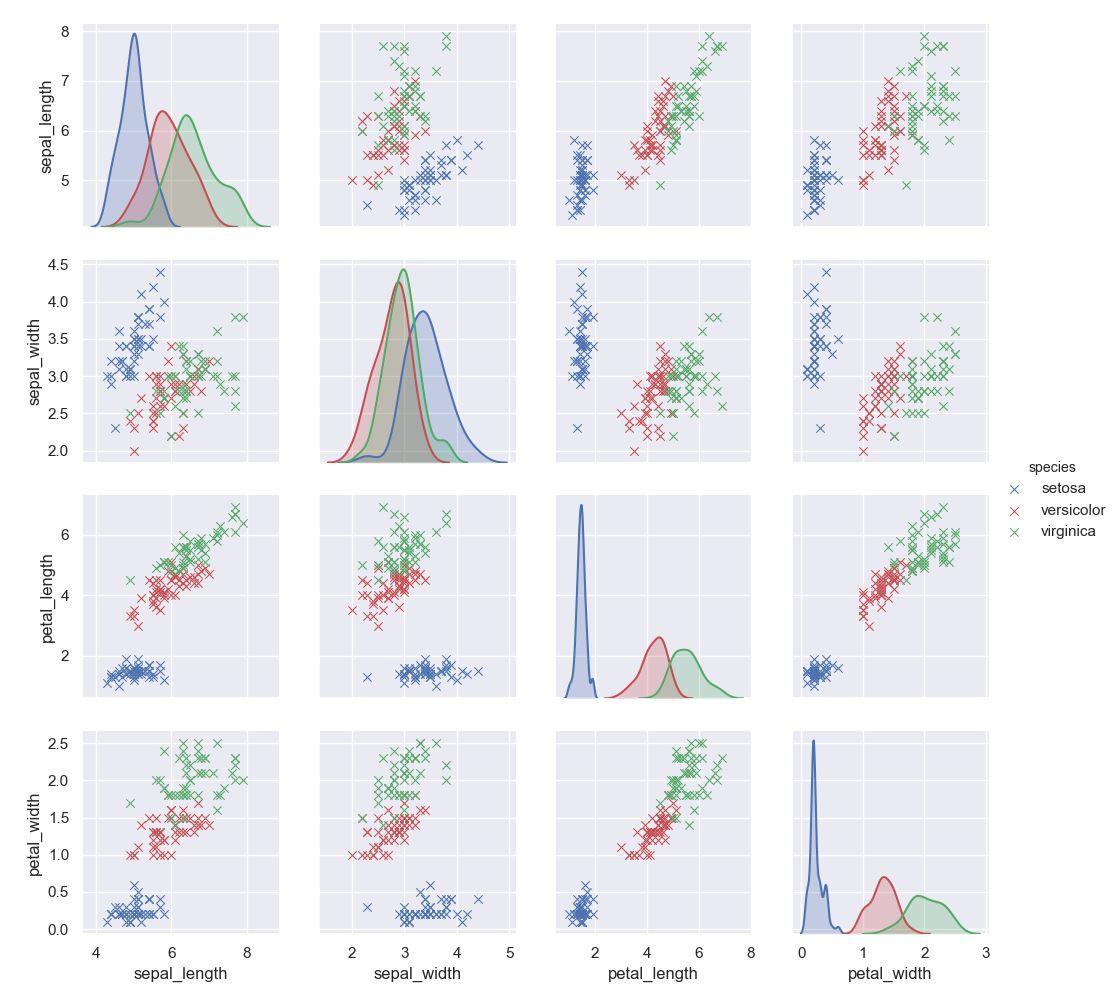
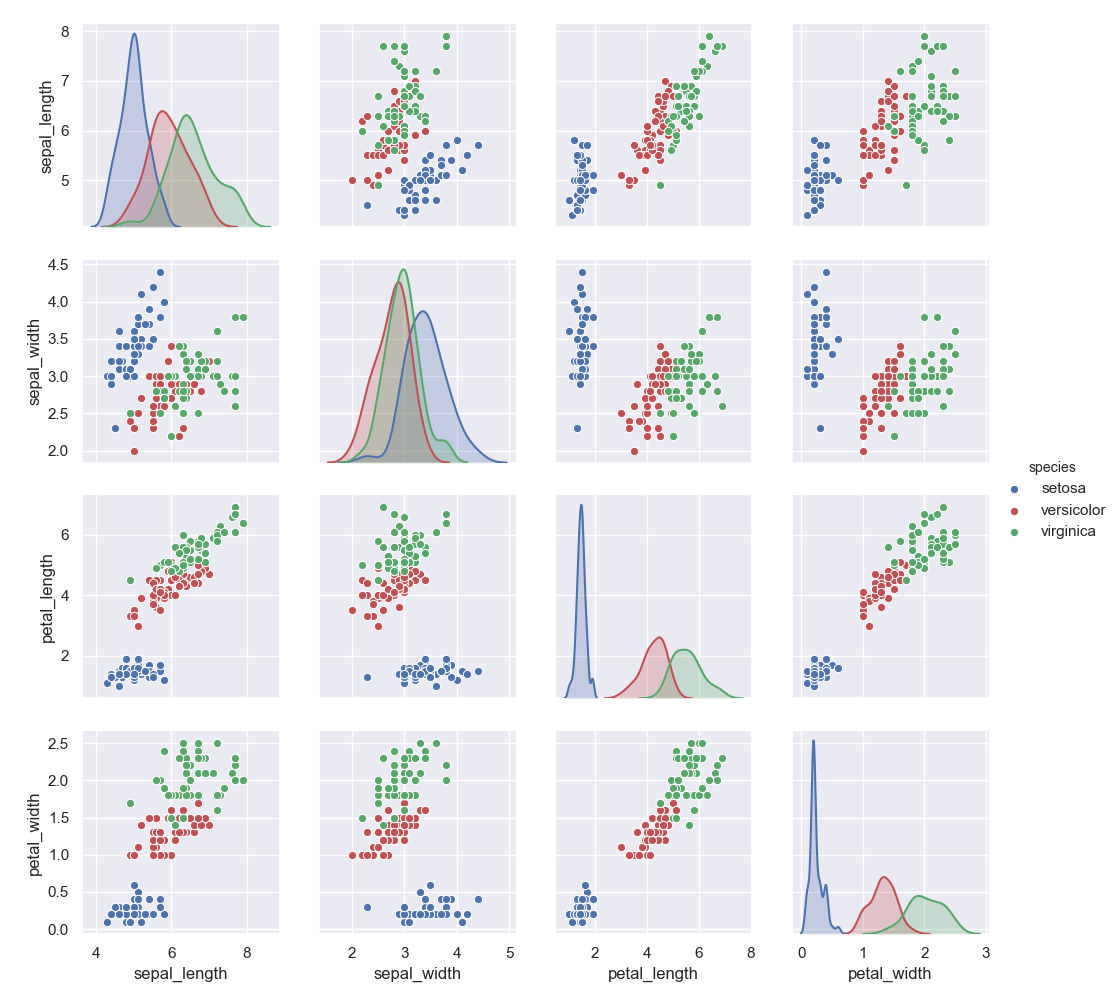
Code and readme updated

diff --git a/iris.py b/iris.py
@@ -72,39 +72,8 @@ plt.ylabel('Quantity')
 plt.savefig('images\Outputs\Hist-Petal_Width.png')
 plt.show()
 
-# Setup style of graphs to be created. Creat individual graphs species type with breakdown of colour changed to pallette parameters
-sns.set(style='darkgrid')
-g = sns.relplot(x='sepal_length', y='sepal_width', hue='species', palette=['b', 'r', 'g'], col='species', data=iris)
-
-# Lower subplot heading to creat room for overall title and change axis labels
-plt.subplots_adjust(top=0.85)
-g.fig.suptitle('Individual Flower Sepal Sizes')
-g.set_axis_labels('Sepal Length (cm)', 'Sepal Width (cm)')
-
-# Setup second graph with overlapping species on one graph seperated by colour.
-h = sns.relplot(x='sepal_length', y='sepal_width', hue='species', palette=['b', 'r', 'g'], data=iris)
-
-# The below adds a title to the combined flower output chart
-h.fig.suptitle('Overlapping Species Sepal Sizes')
-h.set_axis_labels('Sepal Length (cm)', 'Sepal Width (cm)')
-
-# Duplicate above for petal dimensions
-
-sns.set(style='darkgrid')
-i = sns.relplot(x='petal_length', y='petal_width', hue='species', palette=['b', 'r', 'g'], col='species', data=iris)
-
-plt.subplots_adjust(top=0.85)
-i.fig.suptitle('Individual Flower Petal Sizes')
-i.set_axis_labels('Petal Length (cm)', 'Petal Width (cm)')
-
-j = sns.relplot(x='petal_length', y='petal_width', hue='species', palette=['b', 'r', 'g'], data=iris)
-
-j.fig.suptitle('Overlapping Species Petal Sizes')
-j.set_axis_labels('Petal Length (cm)', 'Petal Width (cm)')
-
-plt.show()
-
 # Setup for violinplot display with datapoints highlighted in white using swarmplot and print graph 
+sns.set(style='darkgrid')
 sns.violinplot(x='species', y='sepal_length', palette=['b', 'r', 'g'], data=iris, inner=None)
 sns.swarmplot(x='species', y='sepal_length', data=iris, color='white', edgecolor='gray', size=4)
 plt.savefig('images\Outputs\Violin-Sepal_Length.png')
@@ -125,7 +94,7 @@ sns.swarmplot(x='species', y='petal_width', data=iris, color='white', edgecolor=
 plt.savefig('images\Outputs\Violin-Petal_Width.png')
 plt.show()
 
-sns.pairplot(hue='species', markers='x', data=iris, palette=['b', 'r', 'g'])
+sns.pairplot(hue='species', markers='o', data=iris, palette=['b', 'r', 'g'])
 plt.savefig('images\Outputs\pairplot.png')
 plt.show()
 
